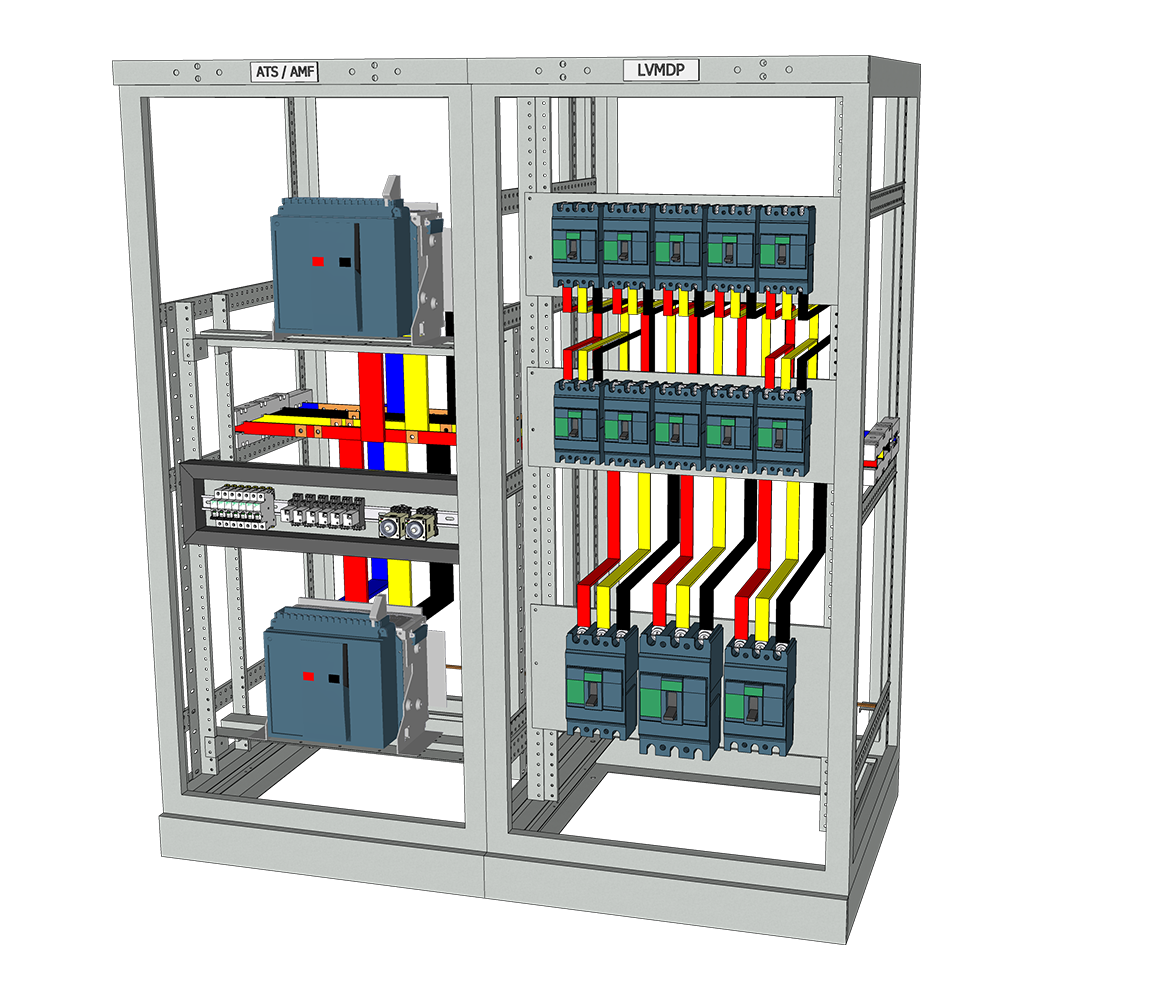
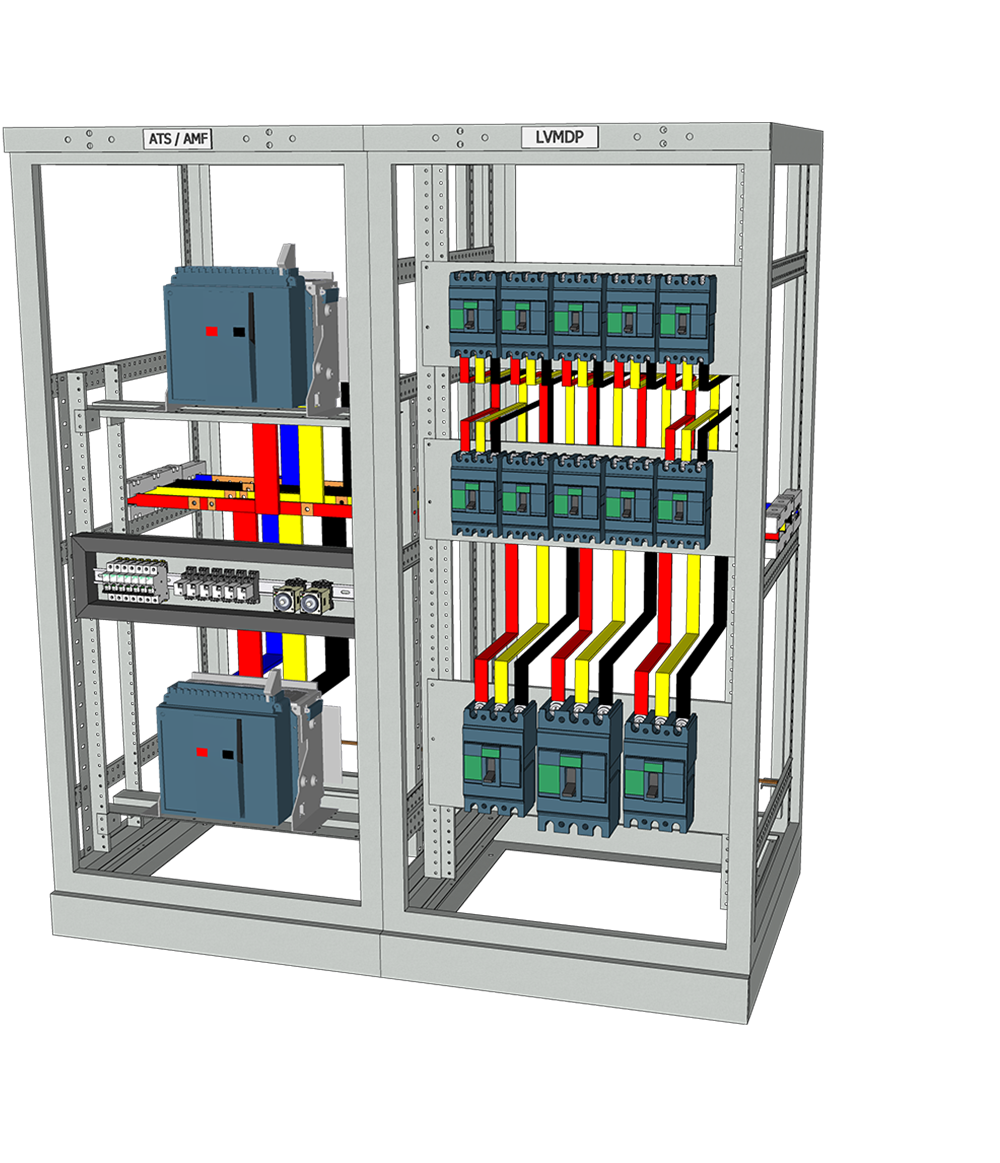
main

diff --git a/assets/css/styles.css b/assets/css/styles.css
@@ -136,6 +136,82 @@ img {
     box-shadow: 0 4px 16px hsla(22, 100%, 8%, .2);
     transition: top .4s;
   }
+  .delivery__container {
+    grid-template-columns: 440px 550px;
+    column-gap: 4rem;
+    align-items: center;
+    padding-block: 1rem;
+  }
+  .delivery__container .section__title,
+  .delivery__data {
+    text-align: initial;
+  }
+  .delivery__description {
+    margin-bottom: 3.5rem;
+  }
+  .delivery__sticker {
+    width: 50px;
+    right: 8rem;
+    bottom: 0;
+  }
+  .delivery__img {
+    width: 550px;
+  }
+  .contact {
+    max-width: initial;
+  }
+  .contact__container {
+    border-radius: 4rem;
+    padding-block: 4rem 6.5rem;
+  }
+  .contact__content {
+    /* grid-template-columns: 420px 435px; */
+    justify-content: center;
+    /* column-gap: 6.5rem; */
+  }
+  .contact__data {
+    /* grid-template-columns: repeat(2, max-content); */
+    text-align: initial;
+    gap: 4.5rem 2rem;
+    /* order: 1; */
+  }
+  .contact__social {
+    justify-content: initial
+  }
+  .contact__title {
+    margin-bottom: 1rem;
+  }
+  .contact__image {
+    position: relative;
+    width: 100%;
+  }
+  .contact__img {
+    width: 420px;
+    position: absolute;
+    top: -2.5rem;
+  }
+  .contact__sticker-1 {
+    width: 70px;
+    left: 27rem;
+    top: 10rem;
+  }
+  .contact__sticker-2 {
+    width: 40px;
+    right: 10rem;
+    bottom: 5.5rem;
+  }
+  .footer {
+    padding-block: 5rem 3rem;
+  }
+  .footer__container {
+    row-gap: 3.5rem;
+  }
+  .footer__copy {
+    margin-top: 4rem;
+  }
+  .scrollup {
+    right: 3rem;
+  }
 }
 
 .nav__list {
@@ -185,6 +261,21 @@ img {
 /* Active link */
 .active-link::after {
   width: 60%;
+  background-color: wheat;
+}
+
+/*=============== BUTTON ===============*/
+.button {
+  display: inline-flex;
+  background-color: var(--first-color);
+  color: var(--title-color);
+  padding: 1rem 1.5rem;
+  font-family: var(--second-font);
+  border-radius: 4rem;
+  transition: box-shadow .4s;
+}
+.button:hover {
+  box-shadow: 0 8px 24px hsla(22, 100%, 8%, .2);
 }
 
 /*=============== HOME ===============*/
@@ -408,6 +499,102 @@ img {
   transform: rotateX(0);
 }
 
+/*=============== DELIVERY ===============*/
+.delivery__container {
+  row-gap: 2.5rem;
+}
+.delivery__data {
+  position: relative;
+  text-align: center;
+}
+.delivery__container .section__title {
+  margin-bottom: 1rem;
+}
+.delivery__description {
+  margin-bottom: 2rem;
+}
+.delivery__sticker {
+  width: 30px;
+  rotate: 15deg;
+  position: absolute;
+  right: 1rem;
+  bottom: 1.5rem;
+  opacity: .5;
+}
+.delivery__img {
+  width: 320px;
+  justify-self: center;
+  filter: var(--shadow-big-img);
+}
+
+/*=============== CONTACT ===============*/
+.contact__container {
+  position: relative;
+  background-color: var(--second-color);
+  padding-top: 3.5rem;
+  border-radius: 3rem;
+  overflow: hidden;
+}
+.contact__content {
+  row-gap: 3rem;
+}
+.contact__container .section__title,
+.contact__title,
+.contact__info {
+  color: var(--white-color);
+}
+.contact__data {
+  text-align: center;
+  row-gap: 2rem;
+}
+.contact__title {
+  font-size: var(--h2-font-size);
+  margin-bottom: .75rem;
+}
+.contact__social {
+  display: flex;
+  justify-content: center;
+  column-gap: 1rem;
+}
+.contact__social a {
+  width: 32px;
+  height: 32px;
+  background-color: var(--first-color);
+  color: var(--second-color);
+  font-size: 1.5rem;
+  border-radius: .5rem;
+  display: grid;
+  place-items: center;
+  transition: transform .4s;
+}
+.contact__social a:hover {
+  transform: translateY(-.25rem);
+}
+.contact__info {
+  font-style: normal;
+}
+.contact__image {
+  justify-self: center;
+}
+.contact__img {
+  width: 280px;
+}
+.contact__sticker-1,
+.contact__sticker-2 {
+  position: absolute;
+  opacity: .5;
+}
+.contact__sticker-1 {
+  width: 40px;
+  top: 6.5rem;
+  left: 1.5rem;
+}
+.contact__sticker-2 {
+  width: 30px;
+  right: 3rem;
+  bottom: 12rem;
+}
+
 
 /*=============== BREAKPOINTS ===============*/
 /* For small devices */
@@ -480,6 +667,14 @@ img {
 @media screen and (min-width: 540px) {
   .modal__card {
     padding: 1rem;
+  }
+  .delivery__container {
+    grid-template-columns: 360px;
+    justify-content: center;
+  }
+  .contact {
+    max-width: 500px;
+    margin: 0 auto;
   }
 }
 

diff --git a/index.html b/index.html
@@ -329,7 +329,7 @@
           <img src="assets/img/sticker-glass.svg" alt="image" class="delivery__sticker">
         </div>
 
-        <img src="assets/img/delivery-burger.png" alt="image" class="delivery__img">
+        <img src="assets/img/pnl/lvmdp.png" alt="image" class="delivery__img">
       </div>
     </section>
 
@@ -379,7 +379,7 @@
           </div>
 
           <div class="contact__image">
-            <img src="assets/img/contact-man.png" alt="image" class="contact__img">
+            <img src="assets/img/contact-pp.png" alt="image" class="contact__img">
           </div>
         </div>
 
